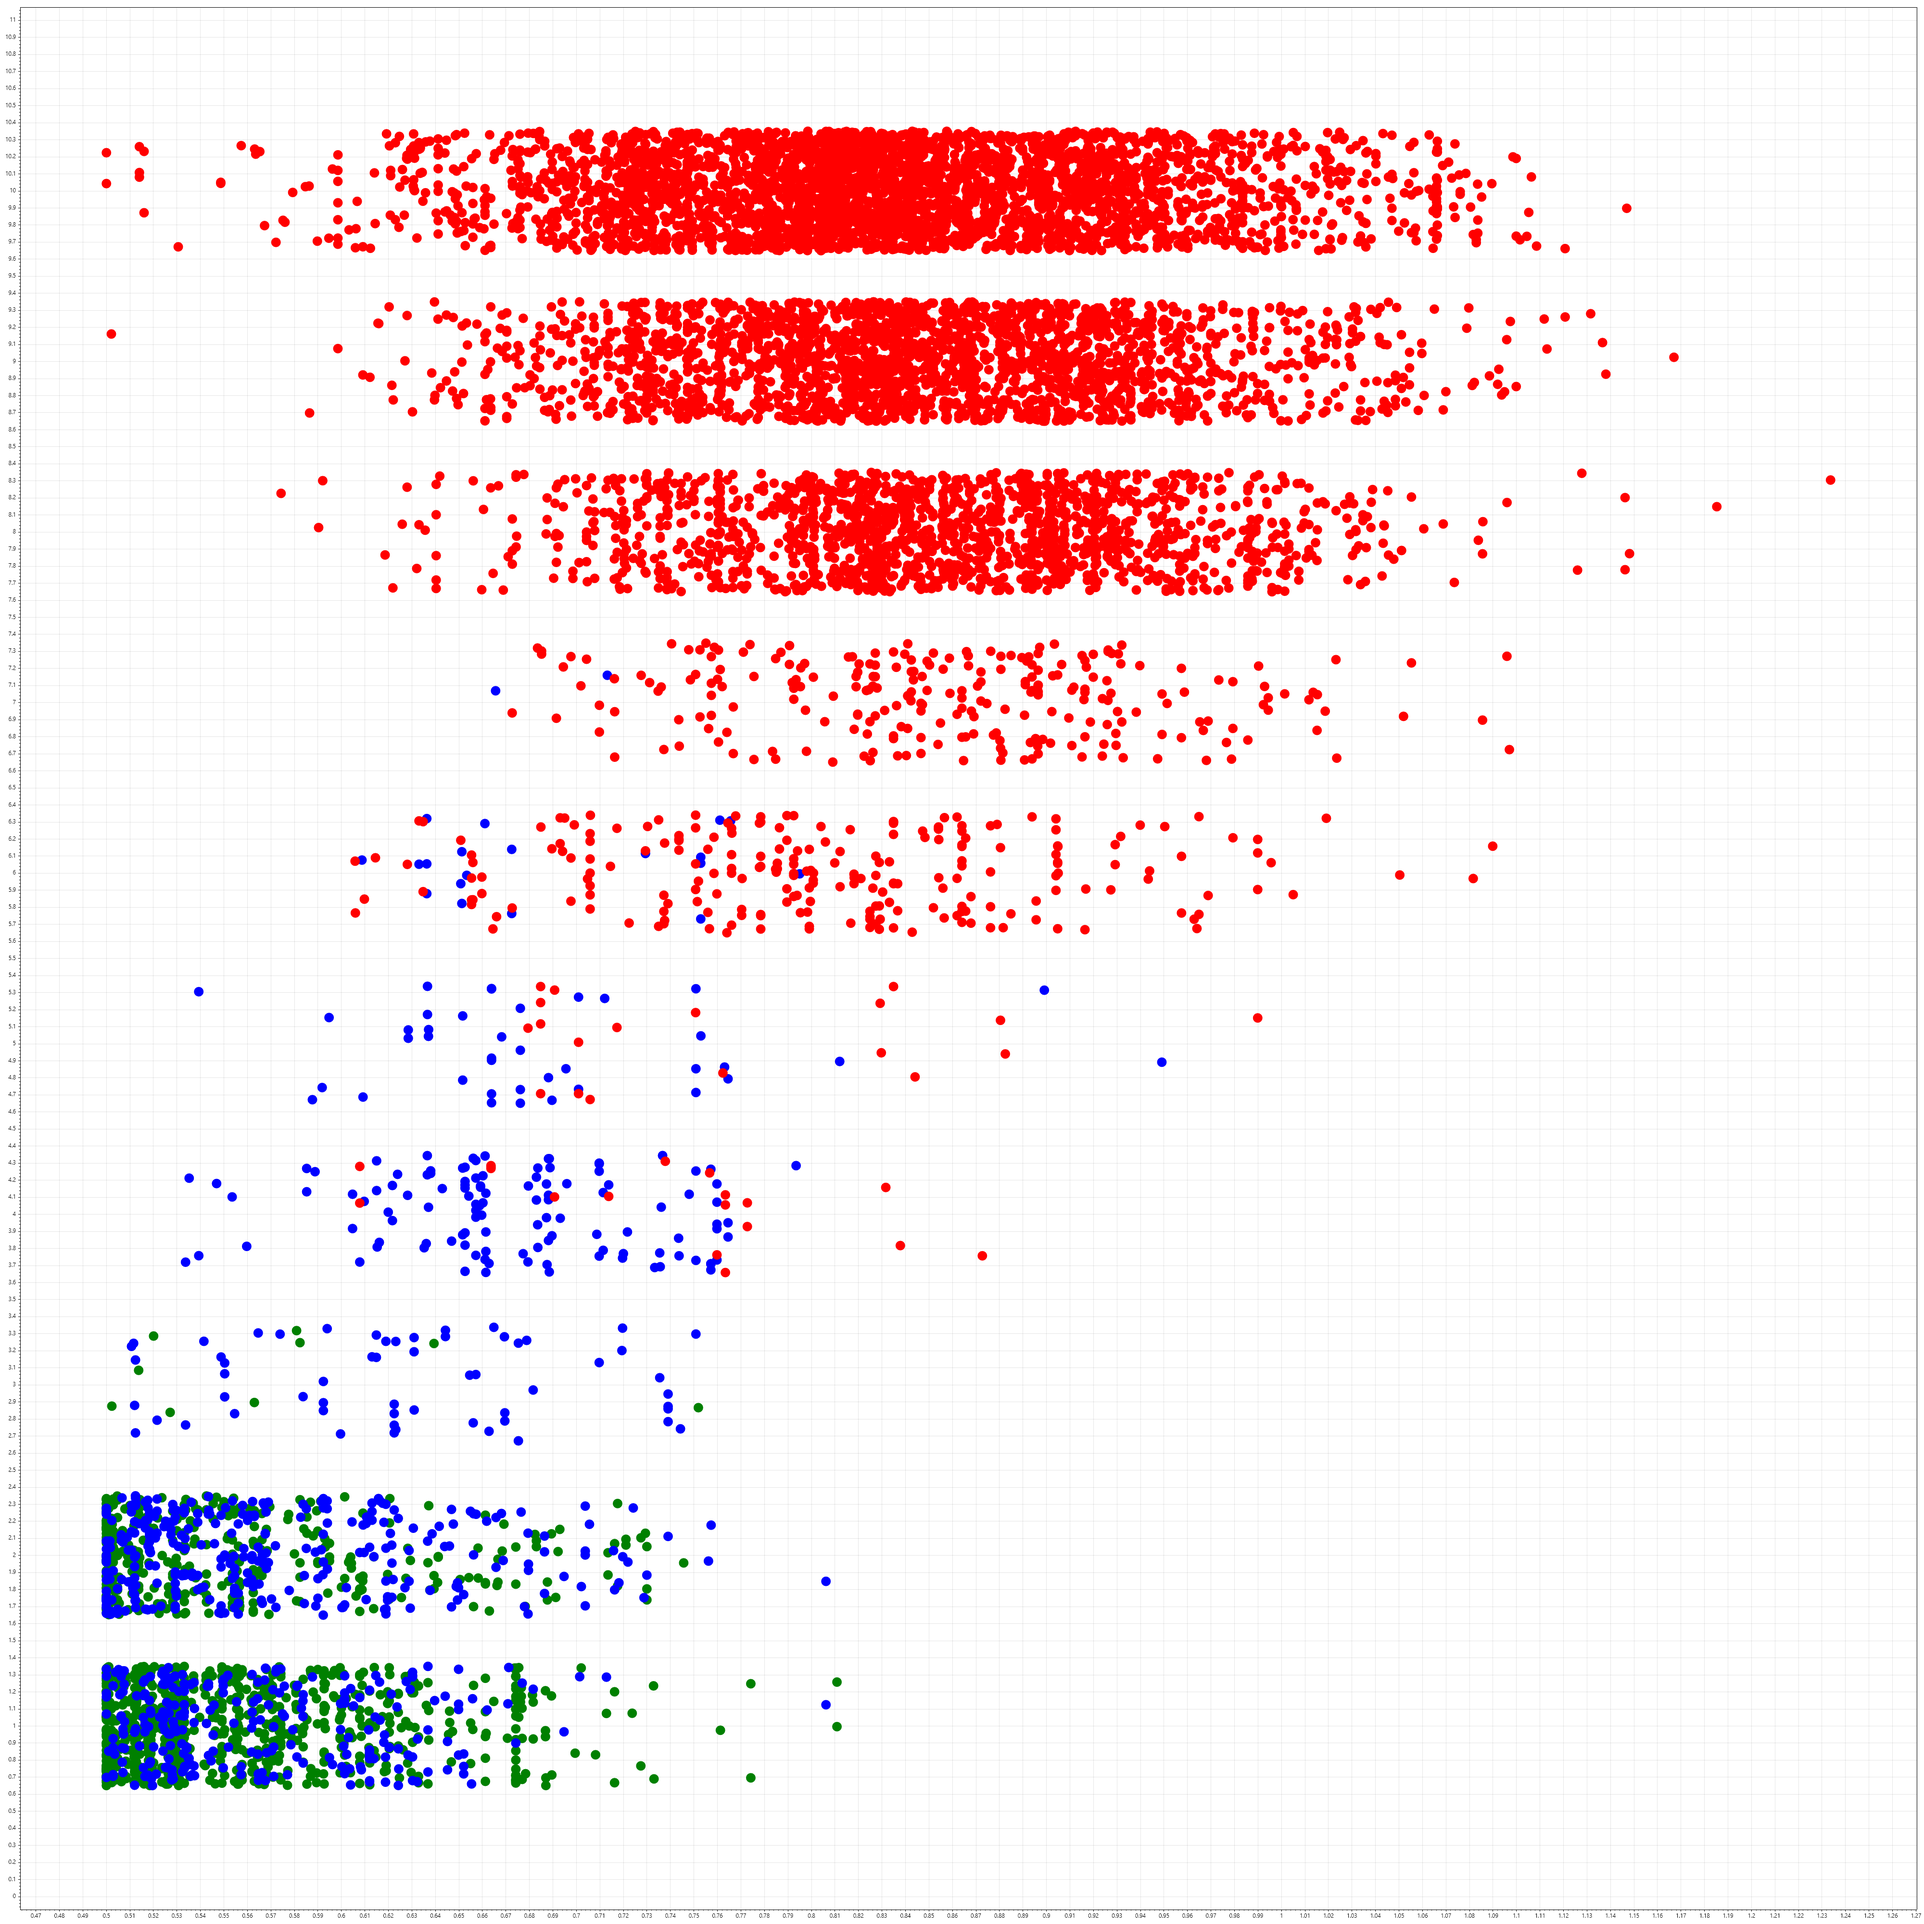
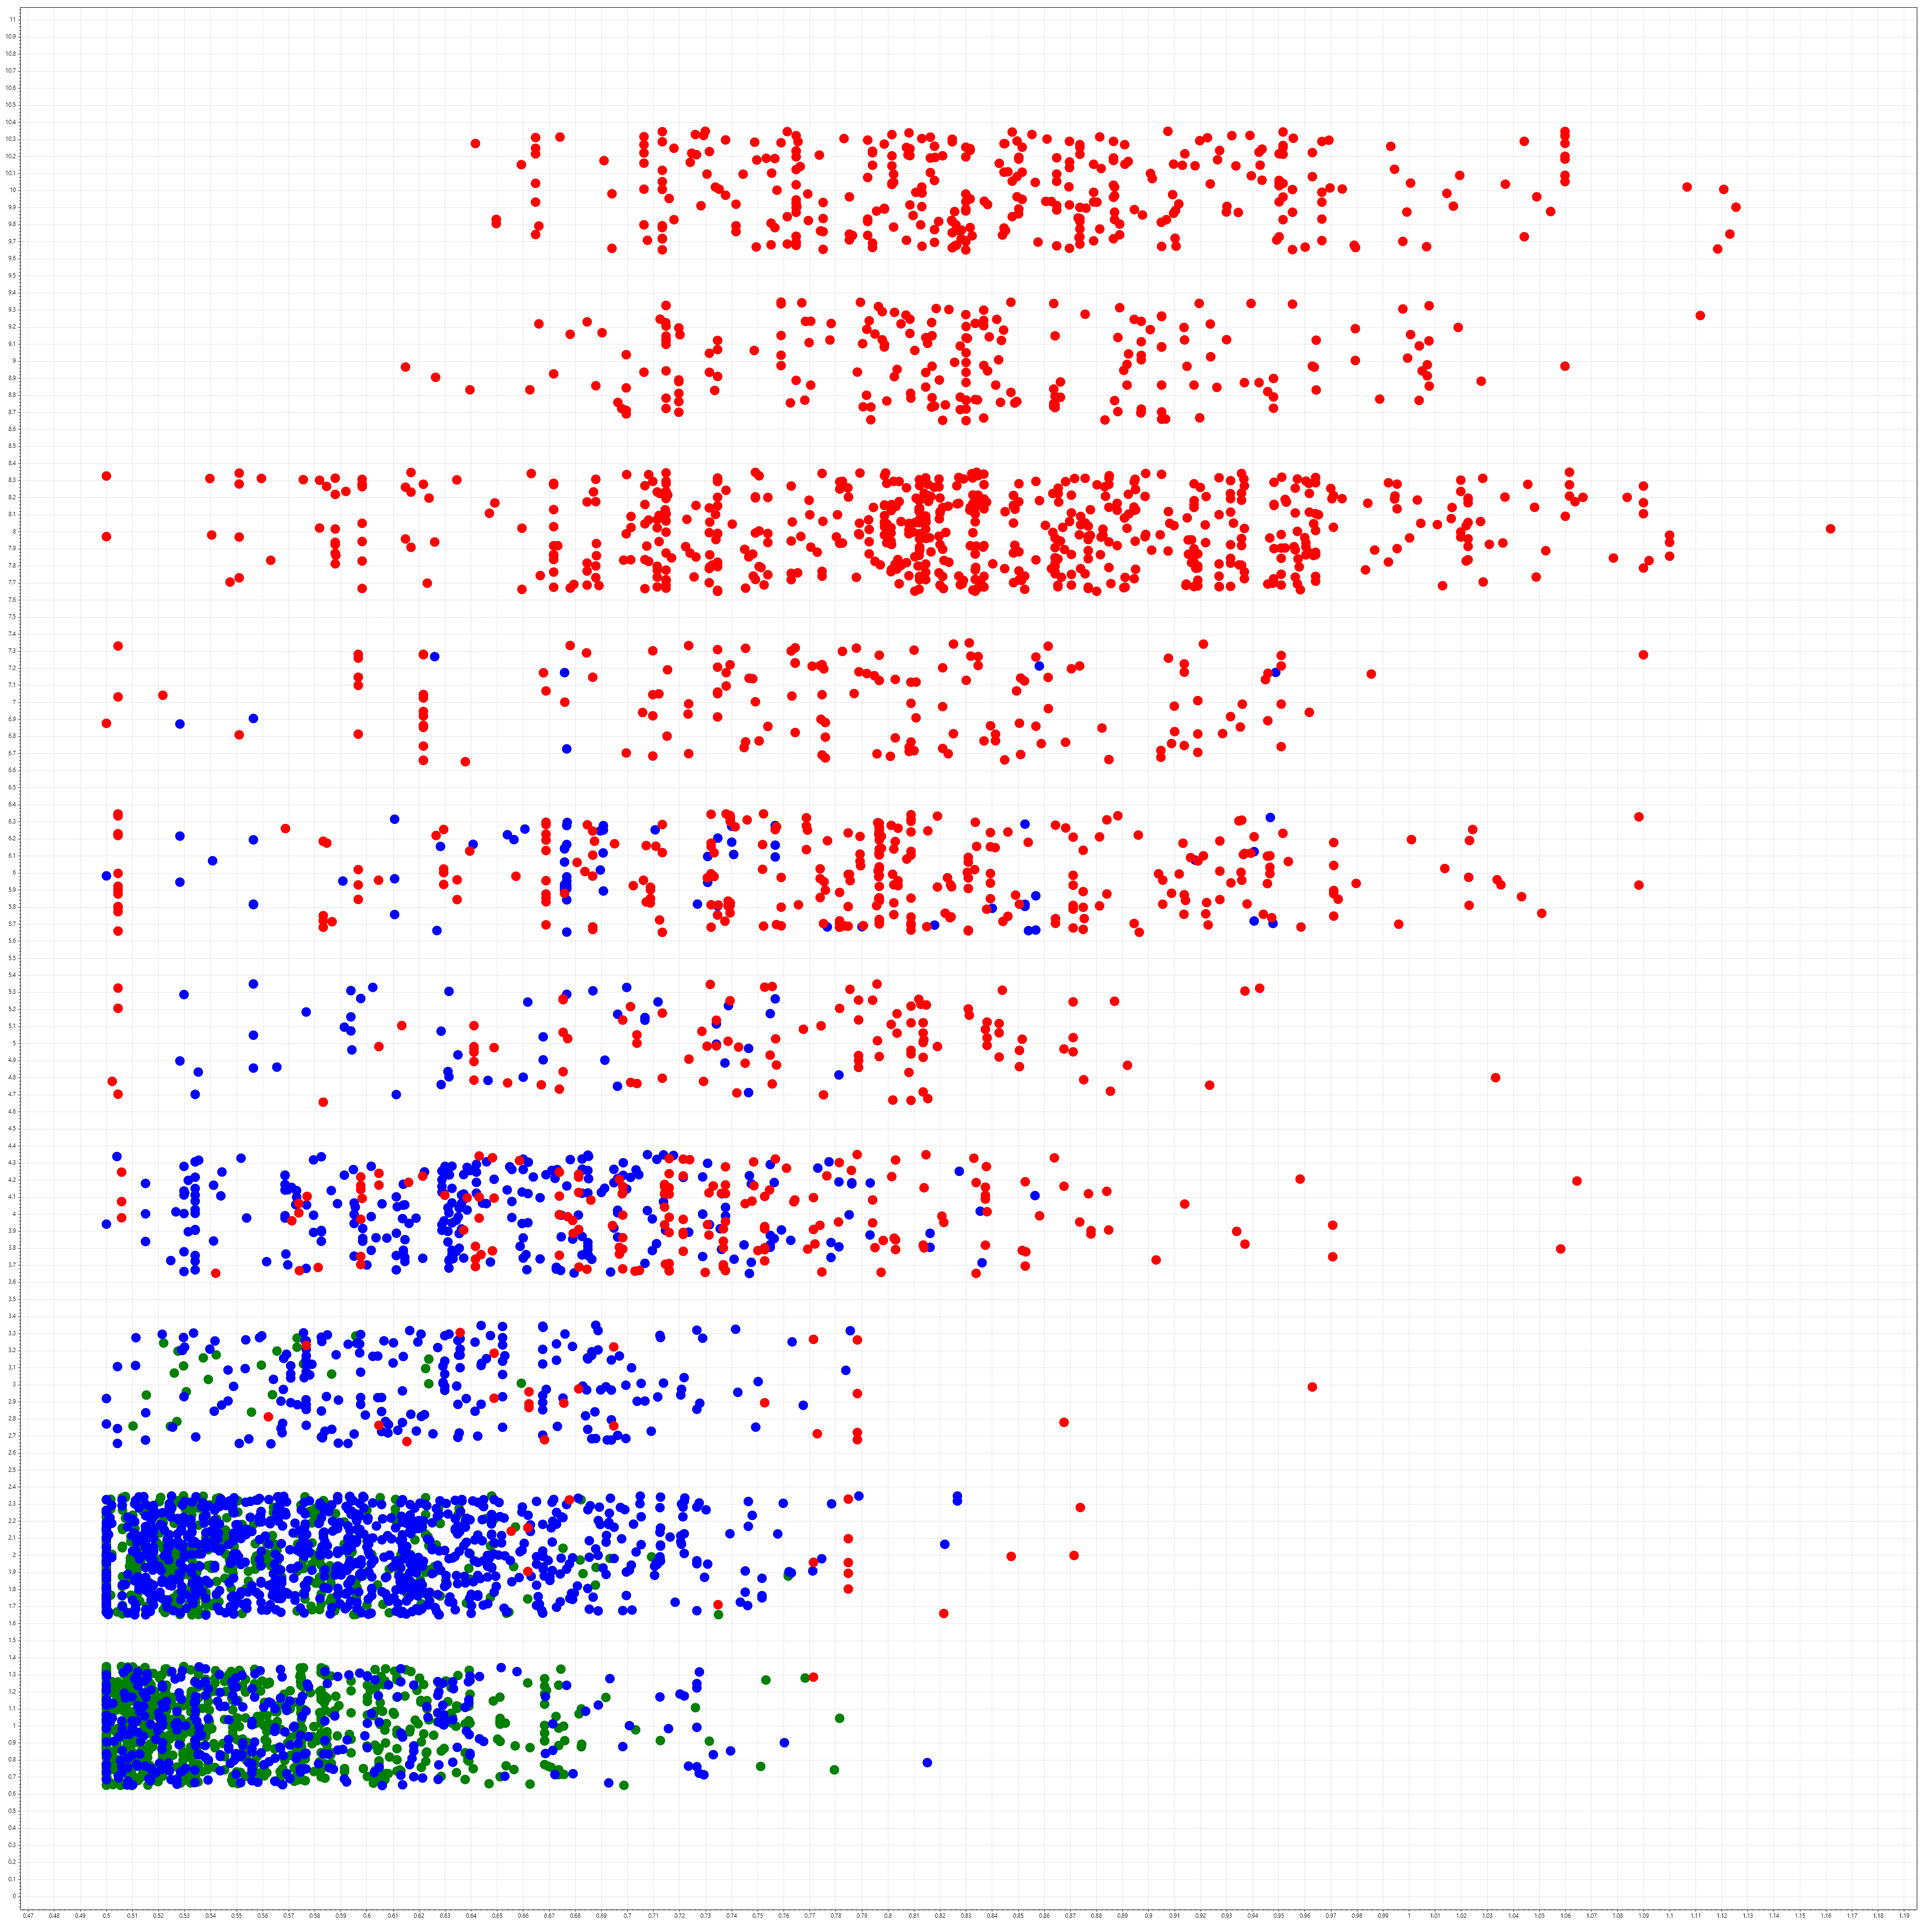
Bugfix and graph update

diff --git a/Darwin/Animal.cs b/Darwin/Animal.cs
@@ -405,8 +405,10 @@ namespace Darwin
                 int babyCounter = 1;
                 float extraBabyChance = 0.3f / size;
                 while (Globals.random.NextDouble() < extraBabyChance && babyCounter < 5) //allow for multiple babies, more likely with smaller animals, capepd at 5
+                {
                     babyCounter++;
                     MakeChild(validMate);
+                }
                 MakeChild(validMate);
                 return;
             }
